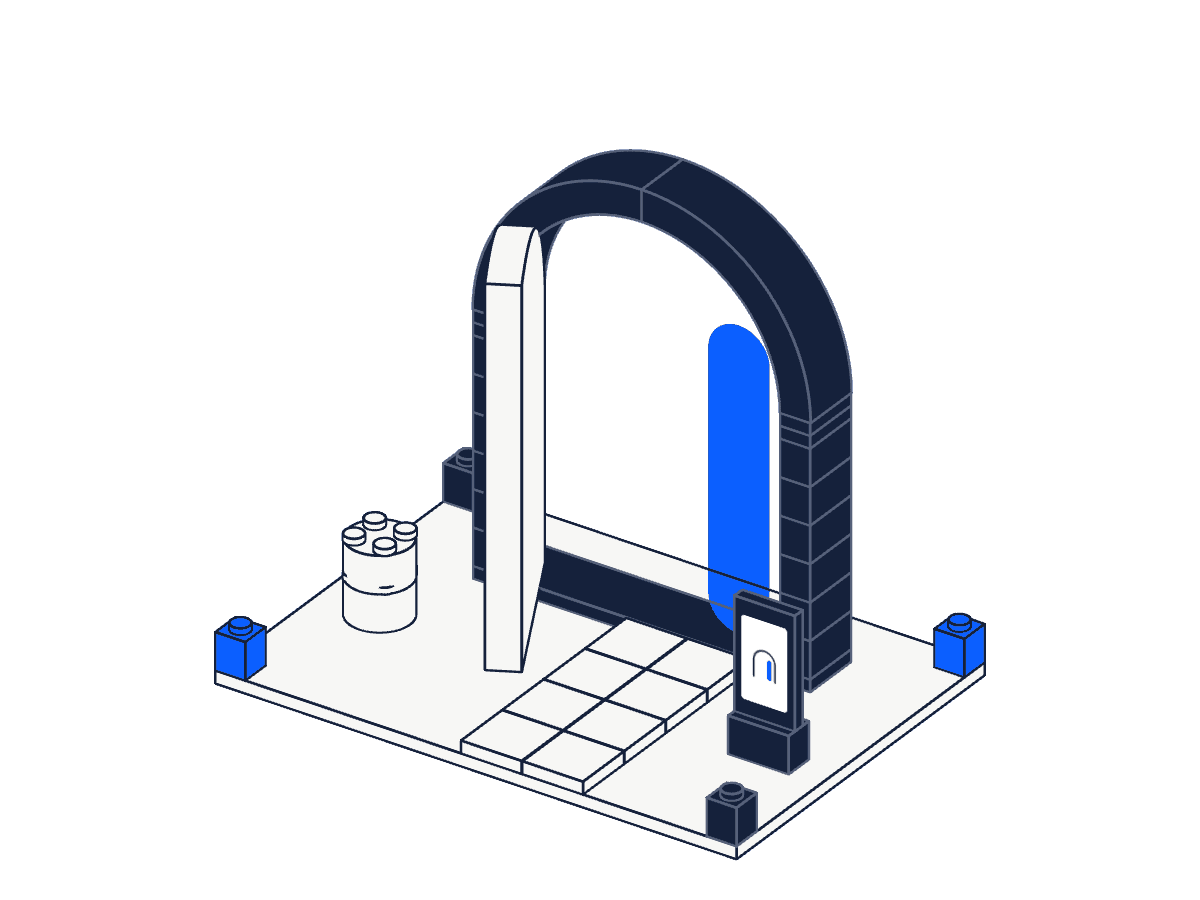
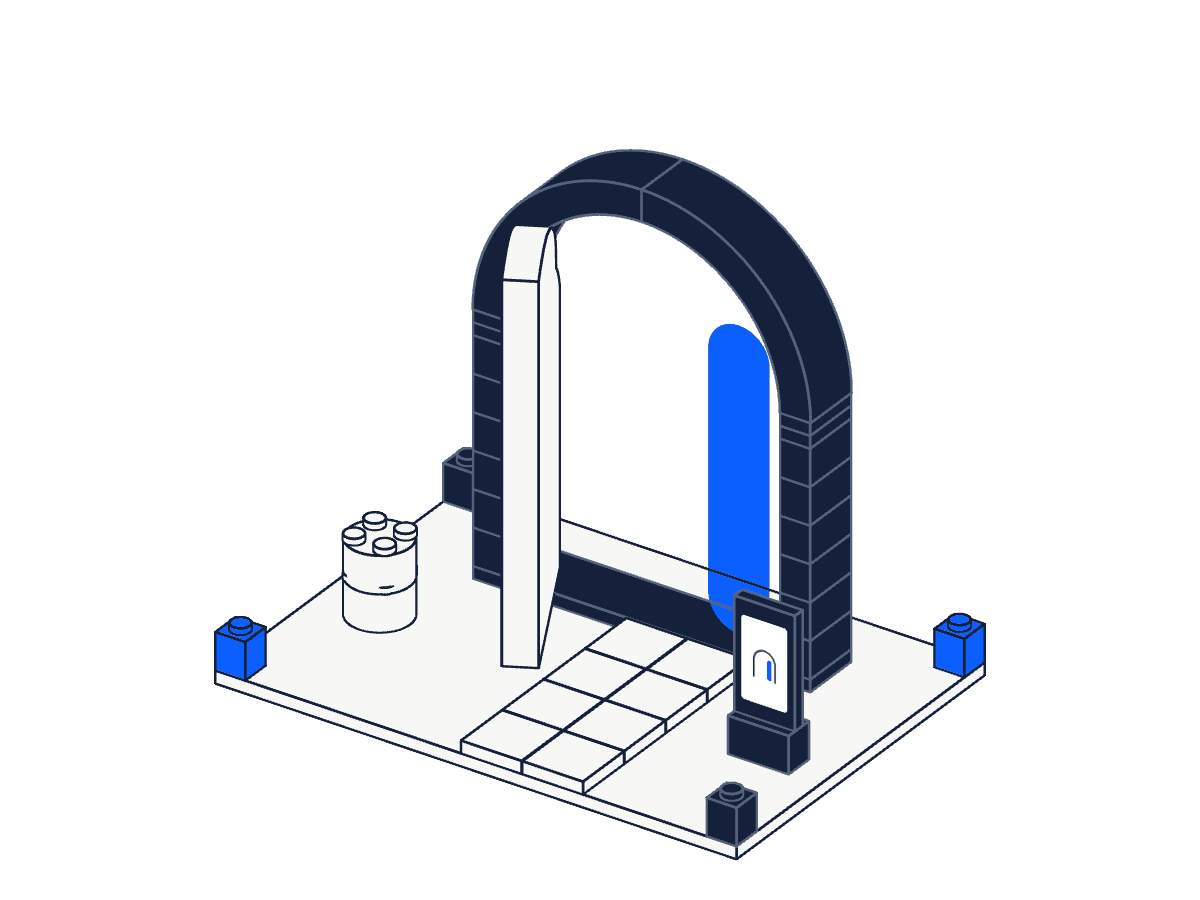
Spec v0.3: hero mark back to pre-v0.2 size, 6 stages, no-intersection physics
- Hero restored from 371f502 (big arch, fill-in, proximity glow), without the removed note line
- Stages: 6 stages with v0.3 texts (UA/EN), counter / 06, 6 segments, prepay note on stage 02
- Scroll build keeps the video-like rain (chosen over the carousel), with physics:
  drop order is a topological sort of 'what stands on what' (studs count as support),
  random among pieces that are ready; leaf lands before the arch
- Leaf hinge moved 4 mm off the left pillar; leaf top follows the arch with >=1.5 mm gap
  over the whole opening swing (-30..-62 deg)
- Dev-only per-frame collision check (console.warn), stripped from production
- CMS: exactly 6 stages; door poster regenerated

Changed region(s): [[0.4008, 0.2489, 0.4933, 0.7467]]

diff --git a/src/lib/lego/door.js b/src/lib/lego/door.js
@@ -1,7 +1,7 @@
 // @ts-nocheck
-// Двері для блоку «Етапи» (дод. ТЗ v0.2, п. 2): одна сцена, деталі проявляються над місцем і опускаються.
-// 1 база · 2 поріг і доріжка · 3 колони · 4 арка · 5 стулка · 6 деталі · 7 світло · 8 двері відчиняються ширше
-import { THREE, Kit, P, BR, PL } from './kit.js';
+// Двері для блоку «Етапи»: одна сцена з деталей (дод. ТЗ v0.2, фізика — v0.3 п. 3).
+// Деталі не проходять крізь деталі: кожна сідає на опору й лише тоді, коли над нею вільно; стулка — до арки.
+import { THREE, Kit, P, BR, PL, SH } from './kit.js';
 
 export const HOVER = 40; // мм — висота, з якої опускається деталь
 const reduce = matchMedia('(prefers-reduced-motion: reduce)').matches;
@@ -21,14 +21,29 @@ export function buildDoor() {
     for (let k = 0; k < 2; k++) add(3, 'navy', (p) => p.block(x, Y_SILL + 6 * BR + k * PL, ZB, 1, 2, 1));
   }
   for (const [a0, a1] of [[0, Math.PI / 2], [Math.PI / 2, Math.PI]]) add(4, 'navy', (p) => p.arch(0, Y_SPRING, 44, 36, a0, a1, ZB, 16));
-  const leaf = add(5, 'white', (p) => {
-    const W = 47.4, HX = -35.4, top = (lx) => Y_SPRING + Math.sqrt(Math.max(0, 1296 - (HX + lx) ** 2)) - 1.6;
-    const s = new THREE.Shape(); s.moveTo(0, Y_SILL); s.lineTo(W, Y_SILL);
-    for (let i = 0; i <= 48; i++) { const lx = W - (W * i) / 48; s.lineTo(lx, top(lx)); }
-    s.closePath(); p.extrude(s, -4, 8);
-  });
-  leaf.group.position.set(-35.4, 0, (ZB + ZF) / 2);
+  // Стулка. Петля на 4 мм правіше від лівої колони, щоб на всьому повороті (−30°…−62°) стулка її не зачіпала.
+  // Верх стулки рахуємо за формою арки: у кожній точці, що на будь-якому куті потрапляє в товщу арки,
+  // між верхом стулки й внутрішнім краєм арки лишається ≥ 1,5 мм.
+  const HX = -31.5, LEAF_W = 43.5, LEAF_T = 4, ZC = (ZB + ZF) / 2, R_IN = 36;
   const LEAF_AJAR = THREE.MathUtils.degToRad(-30), LEAF_OPEN = THREE.MathUtils.degToRad(-62);
+  const archInner = (x) => (Math.abs(x) < R_IN ? Y_SPRING + Math.sqrt(R_IN * R_IN - x * x) : Y_SPRING);
+  const leafTop = (lx) => {
+    let top = archInner(HX + lx) - 1.6;
+    for (let deg = -64; deg <= -28; deg += 1) {
+      const a = THREE.MathUtils.degToRad(deg), c = Math.cos(a), sn = Math.sin(a);
+      for (const lz of [-LEAF_T, LEAF_T]) {
+        const wx = HX + lx * c + lz * sn, wz = ZC - lx * sn + lz * c;
+        if (wz > ZB - 0.5 && wz < ZF + 0.5) top = Math.min(top, archInner(wx) - 1.6);
+      }
+    }
+    return top;
+  };
+  const leaf = add(5, 'white', (p) => {
+    const s = new THREE.Shape(); s.moveTo(0, Y_SILL); s.lineTo(LEAF_W, Y_SILL);
+    for (let i = 0; i <= 64; i++) { const lx = LEAF_W - (LEAF_W * i) / 64; s.lineTo(lx, leafTop(lx)); }
+    s.closePath(); p.extrude(s, -LEAF_T, 2 * LEAF_T);
+  });
+  leaf.group.position.set(HX, 0, ZC);
   leaf.group.rotation.y = LEAF_AJAR;
 
   add(6, 'navy', (p) => p.block(44, Y_BASE, 8, 2, 1, 3, { studs: false }));
@@ -46,6 +61,7 @@ export function buildDoor() {
   }
   for (let k = 0; k < 2; k++) add(6, 'white', (p) => p.cylinder(-52, Y_BASE + k * BR, 8, 7.85, BR).stud(-56, Y_BASE + (k + 1) * BR, 4).stud(-48, Y_BASE + (k + 1) * BR, 4).stud(-56, Y_BASE + (k + 1) * BR, 12).stud(-48, Y_BASE + (k + 1) * BR, 12));
   for (const [x, z, c] of [[-68, -48, 'navy'], [60, -48, 'blue'], [-68, 40, 'blue'], [60, 40, 'navy']]) add(6, c, (p) => p.block(x, Y_BASE, z, 1, 1, 3));
+  const arches = parts.filter((p) => p.stage === 4);
   const light = add(7, 'blue', (p) => {
     const yb = Y_SILL, H = 76.8, s = new THREE.Shape();
     s.moveTo(12, yb + 8); s.lineTo(12, yb + H - 8); s.absarc(20, yb + H - 8, 8, Math.PI, 0, true);
@@ -87,7 +103,7 @@ export function buildDoor() {
   }
 
   const fitBox = kit.bounds(); fitBox.max.y += HOVER * 0.55;
-  return { kit, parts, clusters, leaf, LEAF_AJAR, LEAF_OPEN, fitBox };
+  return { kit, parts, clusters, leaf, arches, LEAF_AJAR, LEAF_OPEN, fitBox };
 }
 
 /** Миттєвий стан сцени для етапу n (для PNG-заглушок і «без руху»). */
@@ -118,26 +134,76 @@ export function mountDoorScrub(canvas, card) {
 
   const FALL = reduce ? 0 : 260;   // мм — звідки падає деталь (з-за верхнього краю картки)
   const DUR = 0.16;                // тривалість падіння в частках прокрутки: кілька деталей летять одночасно
+  const TOL = 0.5;                 // мм — допуск при порівнянні габаритів
   const base = parts.filter((p) => p.stage === 1);
   const light = parts.find((p) => p.isLight);
-  const rest = parts.filter((p) => p.stage !== 1 && p !== leaf && !p.isLight);
-  // врізнобій, але знизу вгору: джиттер менший за висоту цеглинки, тож верхня не обжене нижню
-  const keyed = rest.map((p) => ({ p, k: p.restBox().min.y + rand() * BR * 0.9 })).sort((a, b) => a.k - b.k);
+  const solid = parts.filter((p) => p.stage !== 1 && !p.isLight);
+
+  // Граф «що на чому стоїть»: якщо габарити двох деталей перетинаються в плані,
+  // нижня сідає раніше за верхню (опора + вільний шлях згори). Стулка — раніше за арку (п. 3.3).
+  const boxes = new Map(solid.map((p) => [p, p.restBox()]));
+  const overlapXZ = (a, b) => a.min.x < b.max.x - TOL && b.min.x < a.max.x - TOL && a.min.z < b.max.z - TOL && b.min.z < a.max.z - TOL;
+  const before = new Map(solid.map((p) => [p, new Set()])); // p → деталі, що мають сісти раніше
+  for (const a of solid) for (const b of solid) {
+    if (a === b) continue;
+    const A = boxes.get(a), B = boxes.get(b);
+    // шипи нижньої деталі входять у верхню на SH — це опора, не перетин
+    if (overlapXZ(A, B) && A.max.y <= B.min.y + SH + TOL) before.get(b).add(a);
+  }
+  for (const arch of d.arches) before.get(arch).add(leaf);
+
+  // Топологічний порядок із випадковим вибором серед деталей, які вже можна ставити — «врізнобій, як дощ»
+  const order = [], placed = new Set();
+  while (order.length < solid.length) {
+    const ready = solid.filter((p) => !placed.has(p) && [...before.get(p)].every((q) => placed.has(q)));
+    const pick = ready[Math.floor(rand() * ready.length)];
+    order.push(pick); placed.add(pick);
+  }
   const plan = new Map();
   base.forEach((p) => plan.set(p, { land: 0.08, fall: FALL * 0.25 }));
-  keyed.forEach(({ p }, i) => plan.set(p, { land: 0.16 + (0.68 * i) / Math.max(1, keyed.length - 1), fall: FALL }));
-  plan.set(leaf, { land: 0.9, fall: FALL });
+  order.forEach((p, i) => plan.set(p, { land: 0.16 + (0.64 * i) / Math.max(1, order.length - 1), fall: FALL }));
 
   const clamp01 = (x) => Math.min(1, Math.max(0, x));
   const soft = (k) => 1 - Math.pow(1 - k, 3); // швидко згори, м'яка посадка
 
+  // Dev-перевірка (п. 3.6): на кожному кадрі габарити деталі в русі проти габаритів інших деталей.
+  // Арка й стулка вкладені одна в одну (габарит арки охоплює проріз), тому цю пару перевірено аналітично при побудові.
+  const DEV = import.meta.env?.DEV;
+  const warned = new Set();
+  const nested = (a, b) => (d.arches.includes(a) && b === leaf) || (d.arches.includes(b) && a === leaf);
+  // Перетин: у плані глибше за допуск, по висоті — глибше, ніж заходить шип у деталь над ним
+  const clash = (A, B) => {
+    const ox = Math.min(A.max.x, B.max.x) - Math.max(A.min.x, B.min.x);
+    const oz = Math.min(A.max.z, B.max.z) - Math.max(A.min.z, B.min.z);
+    const oy = Math.min(A.max.y, B.max.y) - Math.max(A.min.y, B.min.y);
+    return ox > TOL && oz > TOL && oy > SH + TOL;
+  };
+  function devCheck(moving) {
+    const live = solid.filter((p) => p.op > 0.01).concat(base);
+    for (const m of moving) {
+      const M = new THREE.Box3().setFromObject(m.group);
+      for (const o of live) {
+        if (o === m || nested(m, o)) continue;
+        if (clash(M, new THREE.Box3().setFromObject(o.group))) {
+          const key = parts.indexOf(m) + ':' + parts.indexOf(o);
+          if (!warned.has(key)) { warned.add(key); console.warn('[lego] деталі перетинаються', { moving: parts.indexOf(m), other: parts.indexOf(o) }); }
+        }
+      }
+    }
+  }
+
   function setProgress(p) {
+    const moving = [];
     for (const [part, pl] of plan) {
       const k = clamp01((p - (pl.land - DUR)) / DUR);
       part.set(clamp01(k / 0.2), pl.fall * (1 - soft(k)));
+      if (k > 0 && k < 1) moving.push(part);
     }
-    if (light) light.set(clamp01((p - 0.92) / 0.03), 0);
-    leaf.group.rotation.y = LEAF_AJAR + (LEAF_OPEN - LEAF_AJAR) * soft(clamp01((p - 0.95) / 0.05));
+    if (light) light.set(clamp01((p - 0.86) / 0.04), 0);
+    const open = soft(clamp01((p - 0.92) / 0.08));
+    leaf.group.rotation.y = LEAF_AJAR + (LEAF_OPEN - LEAF_AJAR) * open;
+    if (open > 0 && open < 1 && !moving.includes(leaf)) moving.push(leaf);
+    if (DEV && moving.length) devCheck(moving);
     renderer.render(kit.scene, kit.camera);
   }
 

diff --git a/README.md b/README.md
@@ -19,7 +19,7 @@ npm run build      # збірка в dist/
 | Весь контент (тексти, ціни, кейси, FAQ, контакти) | `content/uk/*.json`, `content/en/*.json`, `content/contacts.json` |
 | Юридичні сторінки | `content/{uk,en}/legal/*.md` → `/privacy`, `/offer`, `/cookies` (+ `/en/...`) |
 | Блоки головної | `src/components/*.astro` (порядок — `HomePage.astro`) |
-| «Етапи» (двері з лего збираються прокруткою, як відео) | `src/components/Stages.astro`, сцена — `src/lib/lego/door.js` |
+| «Етапи» (6 етапів; двері з лего збираються прокруткою, як відео; фізика без перетинів) | `src/components/Stages.astro`, сцена — `src/lib/lego/door.js` |
 | «Що робимо» і «Автоматизація» | `src/components/Services.astro`, `Automation.astro`, збірки — `src/lib/lego/builds.js` |
 | Рушій лего-деталей (three.js) | `src/lib/lego/kit.js`, спільний рендерер карток — `src/lib/lego/shelf.js` |
 | Форма → email / CRM | `src/pages/api/lead.ts`, `src/lib/lead.ts` |
